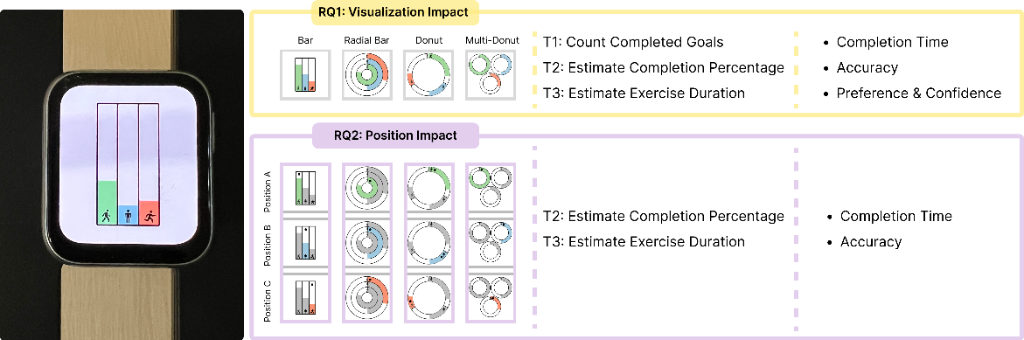
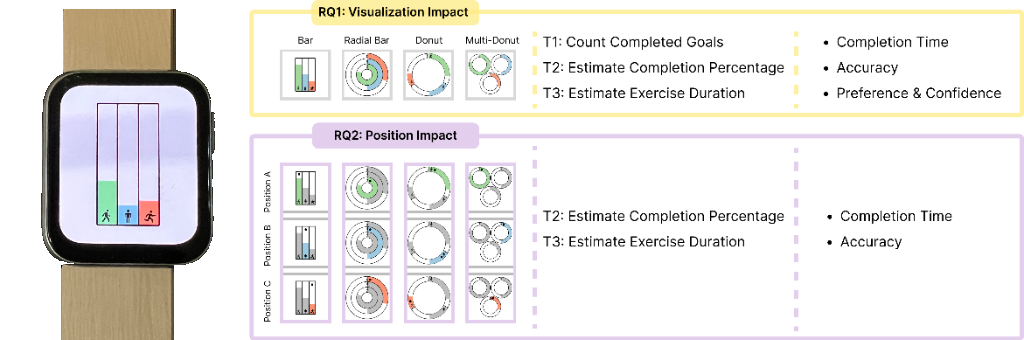
Add teaser for Haonan Yao's paper and replace CGF smartwatch image background with pure white

Changed region(s): [[0.1562, 0.0294, 0.25, 1.0], [0.0, 0.0294, 0.0625, 1.0]]

diff --git a/assets/css/main.scss b/assets/css/main.scss
@@ -462,6 +462,7 @@ h1:before, .anchor:before {
                 object-fit: contain;
                 display: block;
                 border-radius: 4px;
+                background-color: #ffffff;
                 transition: transform 0.2s ease, opacity 0.2s ease;
             }
 

diff --git a/_pages/about.md b/_pages/about.md
@@ -598,18 +598,19 @@ Hello, I am an Assistant Professor at [Xi'an Jiaotong-Liverpool University](http
         </div>
       </div>
 
-      <div class="paper-row" data-tags="immersive">
-        <div class="paper-row-tags">
-          <span class="tag-device" onclick="toggleFilter('immersive', '🥽 Immersive XR')">🥽 Immersive XR</span>
-        </div>
-        <div class="paper-title">Exploring Embodied Asymmetric Two-Handed Interactions for Immersive Data Exploration</div>
-        <div class="paper-authors">Haonan Yao, Lixiang Zhao, Hai-Ning Liang, <b>Yu Liu</b>, Yue Li, Lingyun Yu</div>
-        <div class="paper-venue"><em>Extended Abstracts of the CHI Conference on Human Factors in Computing Systems (CHI EA)</em>, 2024.</div>
-        <div class="paper-actions">
-          <a class="paper-btn" href="https://dl.acm.org/doi/10.1145/3613905.3650777" target="_blank">Full Text</a>
-          <details class="paper-bibtex">
-            <summary class="paper-btn">BibTeX</summary>
-            <pre><code>@inproceedings{yao2024exploring,
+      <div class="paper-row has-teaser" data-tags="immersive">
+        <div class="paper-row-main">
+          <div class="paper-row-tags">
+            <span class="tag-device" onclick="toggleFilter('immersive', '🥽 Immersive XR')">🥽 Immersive XR</span>
+          </div>
+          <div class="paper-title">Exploring Embodied Asymmetric Two-Handed Interactions for Immersive Data Exploration</div>
+          <div class="paper-authors">Haonan Yao, Lixiang Zhao, Hai-Ning Liang, <b>Yu Liu</b>, Yue Li, Lingyun Yu</div>
+          <div class="paper-venue"><em>Extended Abstracts of the CHI Conference on Human Factors in Computing Systems (CHI EA)</em>, 2024.</div>
+          <div class="paper-actions">
+            <a class="paper-btn" href="https://dl.acm.org/doi/10.1145/3613905.3650777" target="_blank">Full Text</a>
+            <details class="paper-bibtex">
+              <summary class="paper-btn">BibTeX</summary>
+              <pre><code>@inproceedings{yao2024exploring,
   title={Exploring Embodied Asymmetric Two-Handed Interactions for Immersive Data Exploration},
   author={Yao, Haonan and Zhao, Lixiang and Liang, Hai-Ning and Liu, Yu and Li, Yue and Yu, Lingyun},
   booktitle={Extended Abstracts of the CHI Conference on Human Factors in Computing Systems (CHI EA '24)},
@@ -617,7 +618,11 @@ Hello, I am an Assistant Professor at [Xi'an Jiaotong-Liverpool University](http
   publisher={ACM},
   doi={10.1145/3613905.3650777}
 }</code></pre>
-          </details>
+            </details>
+          </div>
+        </div>
+        <div class="paper-row-teaser">
+          <a href="images/two_handed_vr.jpg" class="image-popup" title="Click to enlarge"><img src="images/two_handed_vr.jpg" alt="Teaser"></a>
         </div>
       </div>
 
